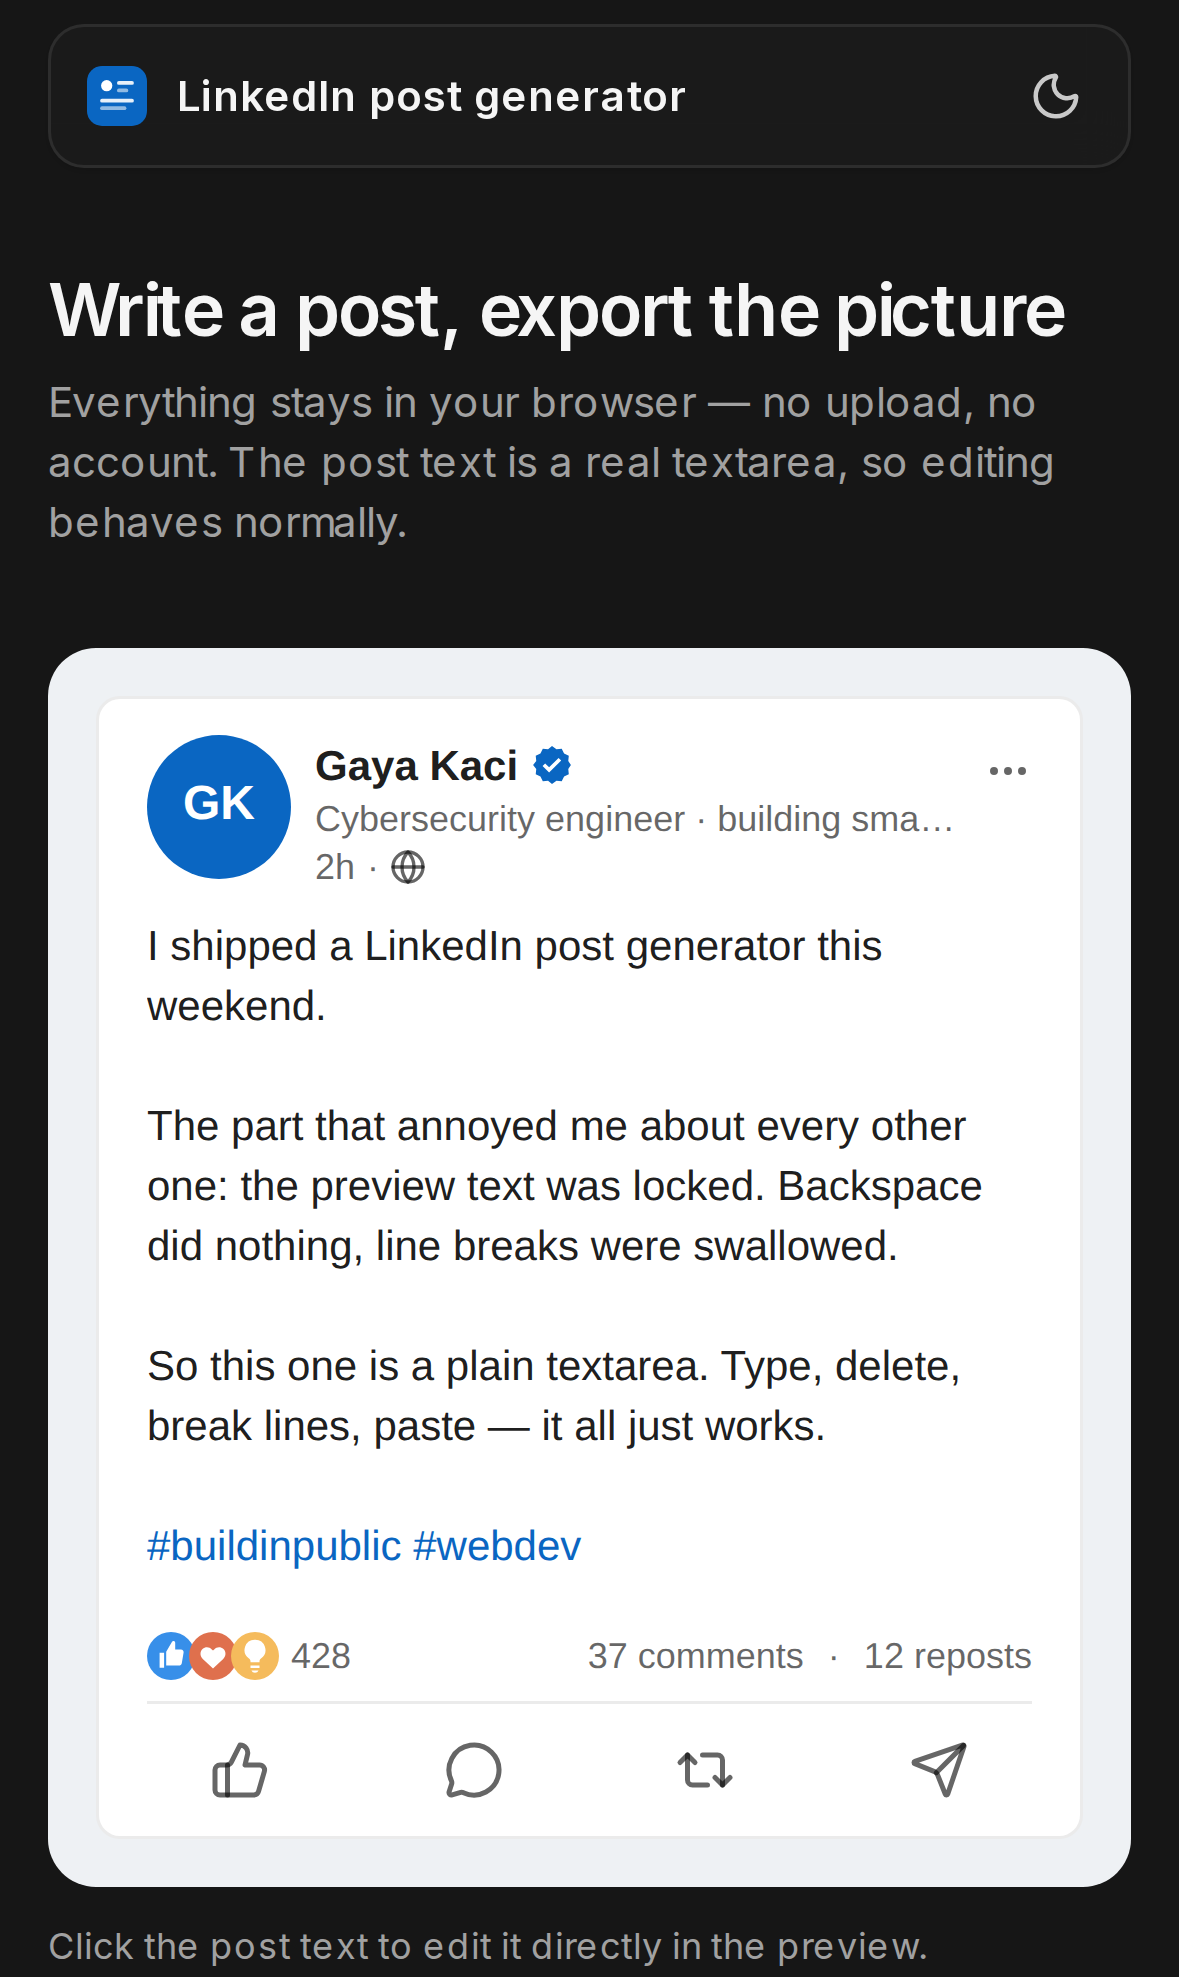
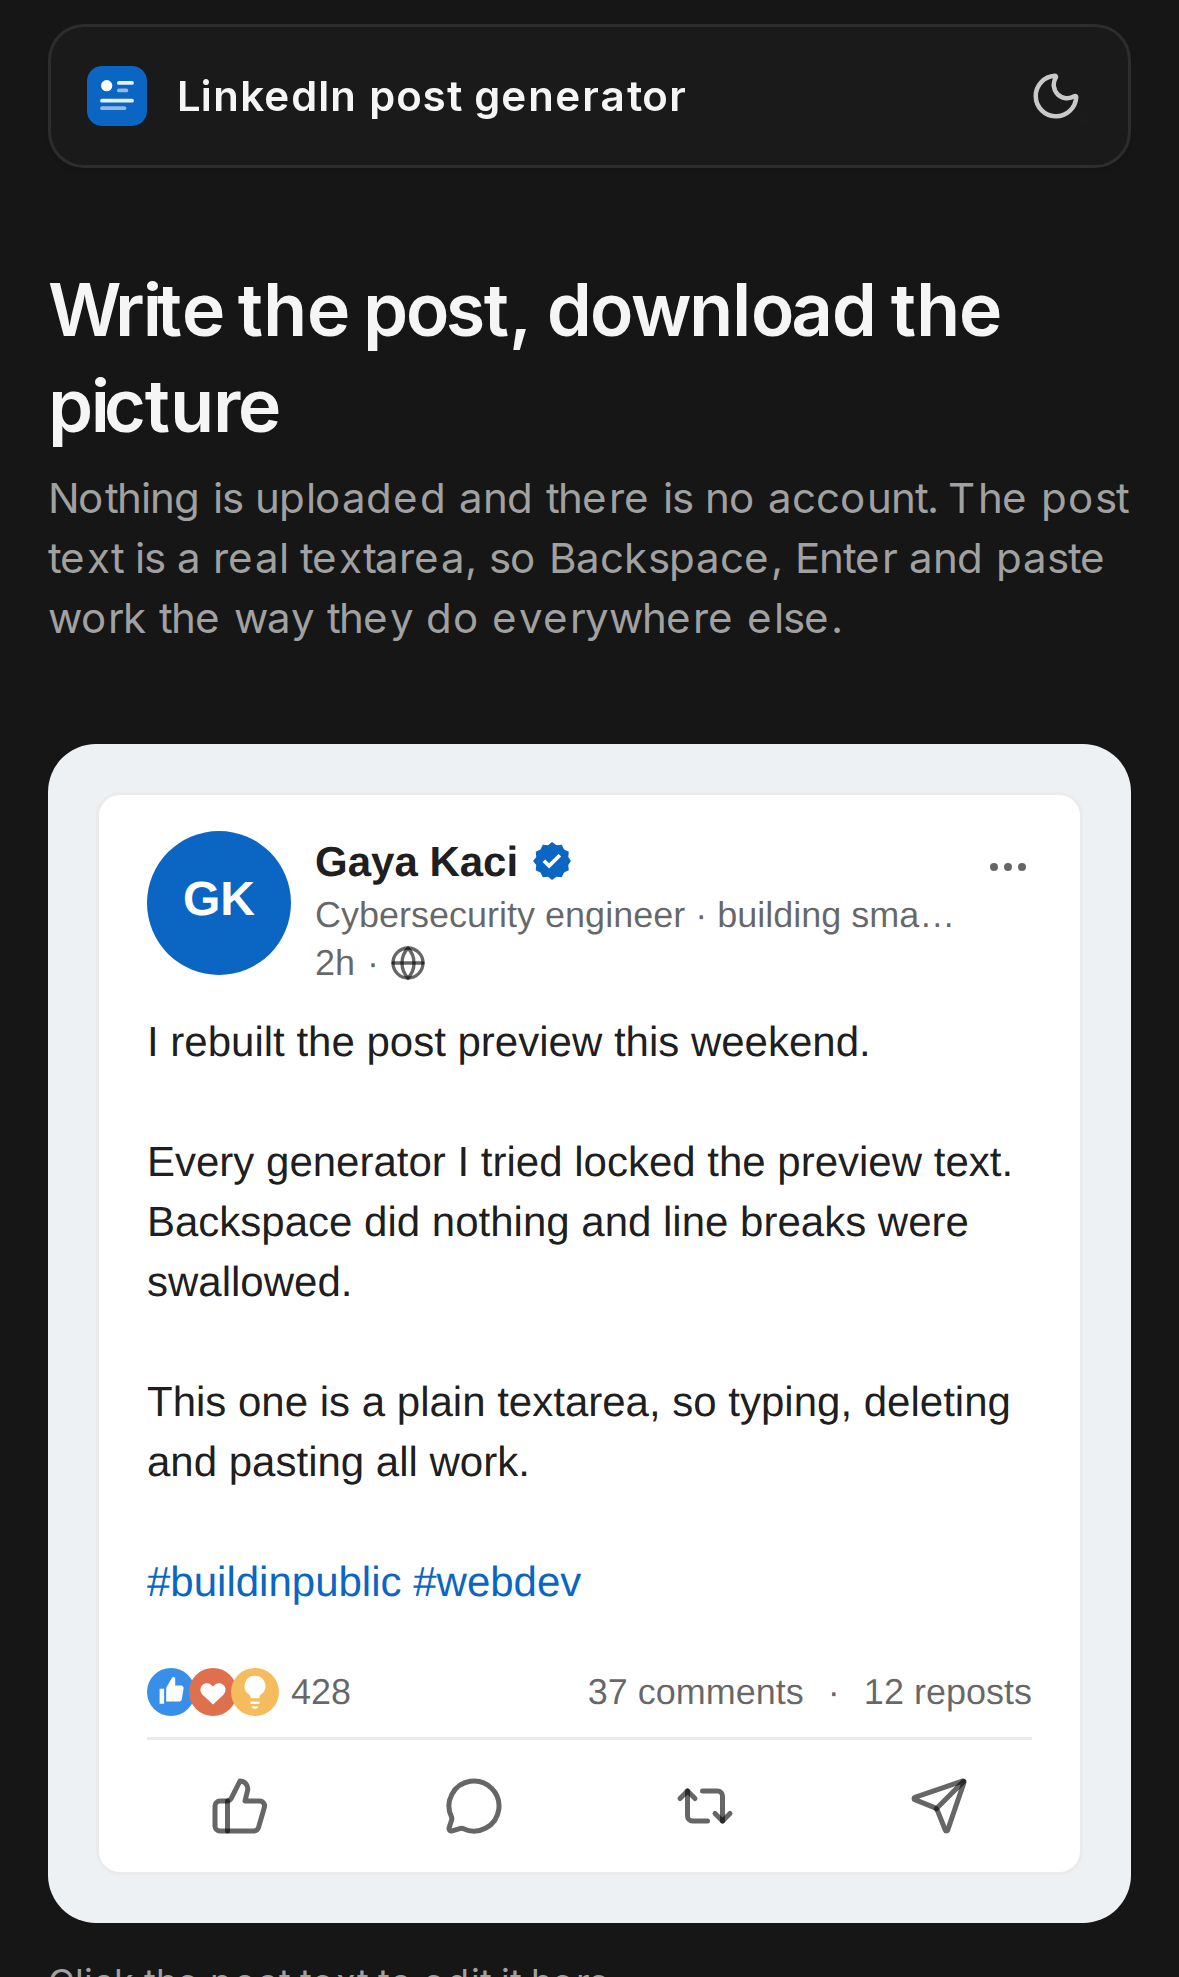
docs: rewrite the interface copy

diff --git a/app/page.tsx b/app/page.tsx
@@ -42,7 +42,7 @@ const DEFAULT_POST: Post = {
   name: "Gaya Kaci",
   headline: "Cybersecurity engineer · building small, sharp tools",
   timestamp: "2h",
-  body: "I shipped a LinkedIn post generator this weekend.\n\nThe part that annoyed me about every other one: the preview text was locked. Backspace did nothing, line breaks were swallowed.\n\nSo this one is a plain textarea. Type, delete, break lines, paste — it all just works.\n\n#buildinpublic #webdev",
+  body: "I rebuilt the post preview this weekend.\n\nEvery generator I tried locked the preview text. Backspace did nothing and line breaks were swallowed.\n\nThis one is a plain textarea, so typing, deleting and pasting all work.\n\n#buildinpublic #webdev",
   avatar: null,
   avatarShape: "circle",
   mentions: [],
@@ -96,7 +96,7 @@ export default function Page() {
     try {
       blob = await render();
     } catch {
-      setStatus("Could not render the image — try a smaller attachment");
+      setStatus("Could not render the image. Try a smaller attachment.");
       return;
     }
     if (!blob) return;
@@ -106,7 +106,7 @@ export default function Page() {
     a.download = "linkedin-post.png";
     a.click();
     URL.revokeObjectURL(url);
-    setStatus("PNG downloaded");
+    setStatus("Saved as linkedin-post.png.");
   }
 
   async function copy() {
@@ -114,28 +114,28 @@ export default function Page() {
     try {
       blob = await render();
     } catch {
-      setStatus("Could not render the image — try a smaller attachment");
+      setStatus("Could not render the image. Try a smaller attachment.");
       return;
     }
     if (!blob) return;
     try {
       await navigator.clipboard.write([new ClipboardItem({ "image/png": blob })]);
-      setStatus("Image copied to clipboard");
+      setStatus("Copied to the clipboard.");
     } catch {
-      setStatus("Clipboard blocked by the browser — use Download instead");
+      setStatus("The browser blocked the clipboard. Use Download instead.");
     }
   }
 
   async function pick(key: "avatar" | "image", file: File | undefined) {
     if (!file) return;
     if (!file.type.startsWith("image/")) {
-      setStatus("That file is not an image");
+      setStatus("That file is not an image.");
       return;
     }
     // Large photos become multi-megabyte data URLs that the export canvas
     // cannot allocate, so refuse them instead of freezing the tab.
     if (file.size > MAX_UPLOAD_BYTES) {
-      setStatus(`Image is too large — keep it under ${MAX_UPLOAD_BYTES / 1_000_000} MB`);
+      setStatus(`That image is over ${MAX_UPLOAD_BYTES / 1_000_000} MB. Pick a smaller one.`);
       return;
     }
     set(key, await readAsDataUrl(file));
@@ -146,11 +146,11 @@ export default function Page() {
     <main className="mx-auto w-full max-w-6xl px-4 py-8 sm:px-8">
       <div className="mb-8">
         <h1 className="font-heading font-semibold text-2xl tracking-tight">
-          Write a post, export the picture
+          Write the post, download the picture
         </h1>
         <p className="mt-1 max-w-prose text-muted-foreground text-sm">
-          Everything stays in your browser — no upload, no account. The post text is a real
-          textarea, so editing behaves normally.
+          Nothing is uploaded and there is no account. The post text is a real textarea, so
+          Backspace, Enter and paste work the way they do everywhere else.
         </p>
       </div>
 
@@ -242,7 +242,7 @@ export default function Page() {
                 onChange={(next) => set("mentions", next)}
               />
               <CheckboxField
-                label="Truncate with “…see more”"
+                label={'Cut it off with "…see more"'}
                 checked={post.clamp}
                 onChange={(v) => set("clamp", v)}
               />
@@ -312,7 +312,7 @@ export default function Page() {
                   variant="ghost"
                   onClick={() => {
                     setPost(DEFAULT_POST);
-                    setStatus("Reset");
+                    setStatus("Back to the defaults.");
                   }}
                 >
                   <RotateCcw />
@@ -342,7 +342,7 @@ export default function Page() {
             />
           </div>
           <p className="mt-3 text-muted-foreground text-xs">
-            Click the post text to edit it directly in the preview.
+            Click the post text to edit it here.
           </p>
         </div>
       </div>
@@ -396,7 +396,7 @@ function MentionsField({
             }
           }}
         />
-        <Button variant="outline" size="icon" aria-label="Add tag" onClick={add}>
+        <Button variant="outline" size="icon" aria-label="Add tagged name" onClick={add}>
           <Plus />
         </Button>
       </div>
@@ -420,8 +420,7 @@ function MentionsField({
         </ul>
       ) : null}
       <FieldDescription>
-        Each name is highlighted wherever it appears in the post text, the way LinkedIn renders a
-        tag.
+        Each name is highlighted wherever it appears in the post, the way LinkedIn draws a tag.
       </FieldDescription>
     </Field>
   );

diff --git a/app/layout.tsx b/app/layout.tsx
@@ -10,11 +10,11 @@ const geistMono = Geist_Mono({ subsets: ["latin"], variable: "--font-geist-mono"
 export const metadata: Metadata = {
   title: "LinkedIn Post Generator",
   description:
-    "Write a LinkedIn post mockup, edit every word freely, and download it as a PNG. Runs entirely in your browser.",
+    "Write a LinkedIn post mockup, edit it like any other text field, and download it as a PNG. Runs in your browser.",
   robots: { index: true, follow: true },
   openGraph: {
     title: "LinkedIn Post Generator",
-    description: "Design a LinkedIn post mockup and export it as a PNG. No upload, no account.",
+    description: "Build a LinkedIn post mockup and export it as a PNG. No upload, no account.",
     type: "website",
   },
 };
